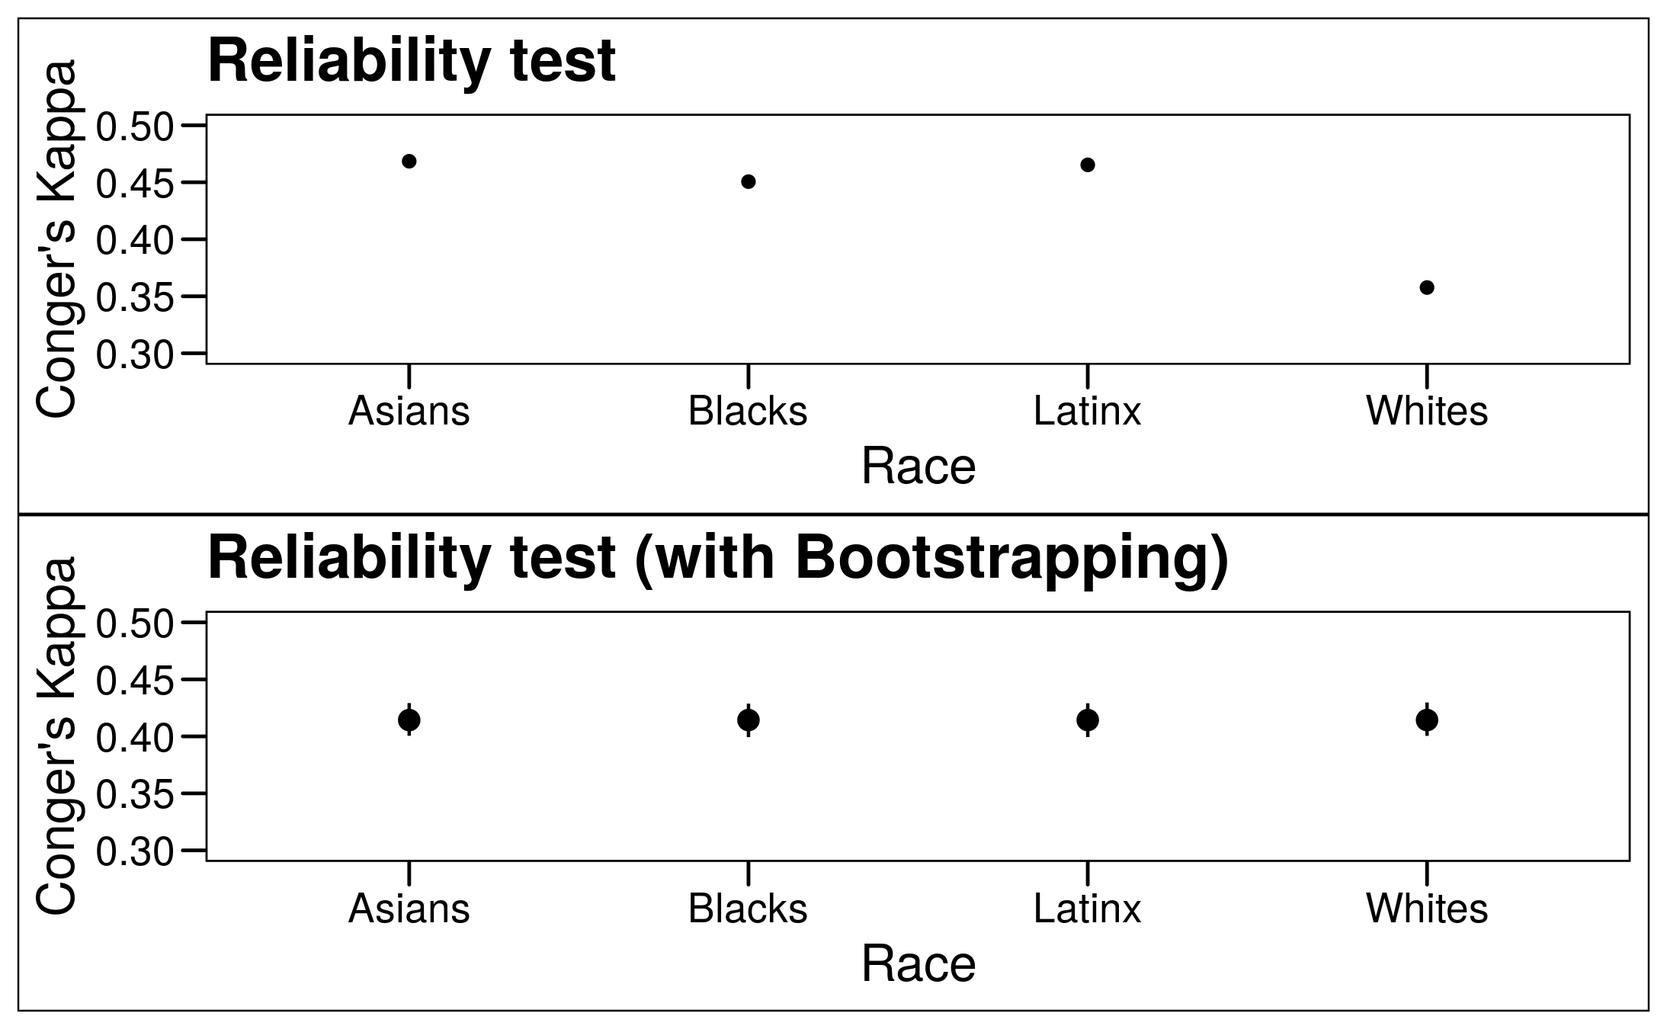
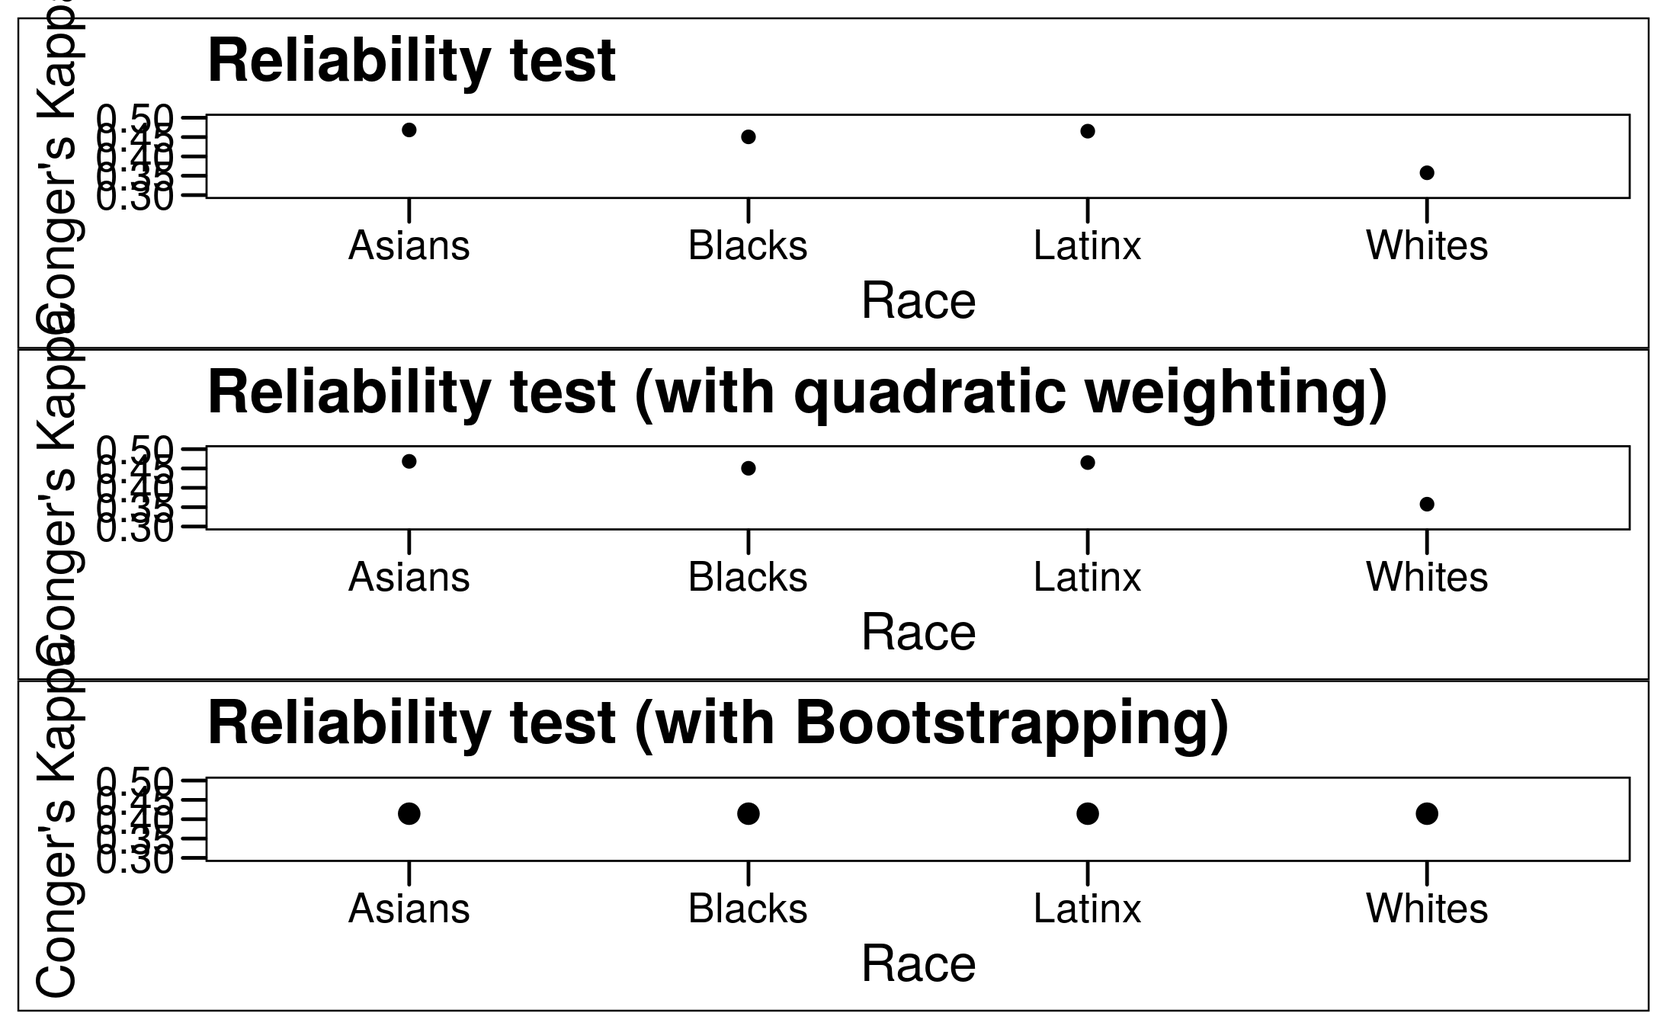
typos corrected and added weighting to reliability test

diff --git a/README.md b/README.md
@@ -4,47 +4,49 @@
 
 ## Overview
 
-This project investigates how people interpret linked fate, a major measure of group consciousness in identity politics. Dawson's [Behind the Mule](https://books.google.com/books?hl=en&lr=&id=0-I9DwAAQBAJ&oi=fnd&pg=PP11&ots=sEoMI1VStP&sig=NLmBqid3hZa2GKO1lpMvSPdYTQo#v=onepage&q&f=false) (1994) argues that African Americans remain a cohesive racial group despite the growing within-group economic inequality because the centuries-long experience of racial discrimination ties their individual and group utility together. He called this connection "linked fate" and since then linked fate has become a popular measure of group solidarity across diverse group contexts (Google Scholar search yields [more than 2700 results](https://scholar.google.com/scholar?hl=en&as_sdt=0%2C5&q=%22linked+fate%22&btnG=)).In this project, [Alan Yan](https://politics.princeton.edu/people/alan-yan) and I argue the linked fate literature has a measure problem. Scholars have measured the expressed strength of linked fate by asking survey respondents to what extent they agree what happens to their group also influences their life. The issue is people may think about that connection in two different ways: **linked progress** and **linked hurt**. Linked progress is a positive mechanism which indicates that an individual thinks that they make progress when their group makes progress. Linked hurt is a negative mechanism which indicates that an individual thinks that they get hurt when their group gets hurt. According to the black utility heuristics theory, the linked hurt interpretation is more plausible. But how do we know?
+This project investigates how people interpret linked fate, a major measure of group consciousness in identity politics. Dawson's [*Behind the Mule*](https://books.google.com/books?hl=en&lr=&id=0-I9DwAAQBAJ&oi=fnd&pg=PP11&ots=sEoMI1VStP&sig=NLmBqid3hZa2GKO1lpMvSPdYTQo#v=onepage&q&f=false) (1994) argues that African Americans remain a cohesive racial group despite the growing within-group economic inequality, because the centuries-long experience of racial discrimination ties their individual and group utility together. He called this connection "linked fate", and since then, linked fate has become a popular measure of group solidarity across diverse group contexts (a Google Scholar search yields [more than 2700 results](https://scholar.google.com/scholar?hl=en&as_sdt=0%2C5&q=%22linked+fate%22&btnG=)).
 
-Using a California-wide survey data (N = 4,435) and novel measures of linked fate, we demonstrate how distinguishing these interpretations matter for the empirical study of identity politics.
+In this project, [Alan Yan](https://politics.princeton.edu/people/alan-yan) and I argue the linked fate literature has a measure problem. Scholars have measured the expressed strength of linked fate by asking survey respondents to what extent they agree that what happens to their group also influences their life. The issue is people may think about that connection in two different ways: **linked progress** and **linked hurt**. Linked progress is a positive mechanism which suggests that an individual thinks they progress when their group progresses. Linked hurt is a negative mechanism which indicates that an individual thinks that they get hurt when their group gets hurt. According to Dawson's black utility heuristics theory, the linked hurt interpretation is more plausible because discrimination is the driving force. But how do we know?
 
-1. Linked progress was on average scored higher than linked hurt across all racial groups including African Americans. This finding was inconsistent with what Dawson's original theory implied.
-2. People expressed stronger group consciousness when they were asked about it through the standard linked fate question. White group consciousness disappeared when we used more specific linked fate questions. This finding raises a question about the foundations of how white group politics are different from that of other racial groups.
+Using a California-wide survey data (N = 4,435) and novel measures of linked fate, we demonstrated how distinguishing these interpretations matter for the empirical study of identity politics.
+
+1. Linked progress, on average, scored higher than linked hurt across all racial groups, including African Americans. This finding was inconsistent with Dawson's original theory.
+2. People expressed stronger group consciousness when they were asked about it through the standard linked fate question. White group consciousness disappeared when we used more specific linked fate questions. This finding raised a question about the foundation of how white group politics are different from those of other racial groups.
 
 ## Research design
 
 ### Hypothesis
 
-The standard way of measuring linked fate is asking the following question to the survey participants.
+The standard way of measuring linked fate is to ask the following question to the survey participants:
 
-- **Linked fate**: Do you agree or disagree - What happens to (Latinos/ whites/ blacks and African Americans / Asians/ Pacific Islanders/ American Indians) in this country will have something to do with what happens in my life
+- **Linked fate**: Do you agree or disagree? What happens to (Latinos/whites/blacks and African Americans/Asians/Pacific Islanders/American Indians) in this country will have something to do with what happens in my life.
 
-In addition to this standard measure, we added two novel measures of linked fate that distinguish whether linked fate is interpreted in the context of a positive or a negative connection between group and individual utility.
+In addition to using this standard measure, we added two novel measures of linked fate that determine whether linked fate is interpreted in the context of a positive or a negative relationship between group and individual utility.
 
-- **Linked progress**: Do you agree or disagree - When things get better for (Latinos/ whites/ blacks and African Americans/ Asians/ Pacific Islanders/ American Indians) in this country, then things will get better for me
-- **Linked hurt**: Do you agree or disagree - When things get worse for (Latinos/ whites/ blacks and African Americans/ Asians/ Pacific Islanders/ American Indians) in this country, then things will get worse for me
+- **Linked progress**: Do you agree or disagree? When things get better for (Latinos/whites/blacks and African Americans/Asians/Pacific Islanders/American Indians) in this country, then things will get better for me.
+- **Linked hurt**: Do you agree or disagree? When things get worse for (Latinos/whites/blacks and African Americans/Asians/Pacific Islanders/ American Indians) in this country, then things will get worse for me.
 
-Our main hypotheses are as follows:
+Our main hypotheses were as follows:
 1. Linked fate, linked progress, and linked hurt will yield statistically different levels of responses.
-2. If the measure is consistent with Dawson's theory, linked hurt will be more strongly correlated with linked hurt than linked progress responses especially among African Americans (convergent validity).
+2. If the measure is consistent with Dawson's theory, linked hurt will be more strongly correlated with linked hurt than linked progress responses, especially among African Americans (convergent validity).
 
 ### Data collection
 
-We tested this hypothesis by embedding these three questions in a California-wide survey (N = 4,435) carried out by the Institute of Government Studies at the University of California Berkeley in June 2019.
+We tested this hypothesis by embedding the above three questions in a California-wide survey (n = 4,435), carried out by the Institute of Government Studies at the University of California Berkeley in June 2019. Other mechanisms were added to reduce bias and collect more representative data:
 
 - Random sampling: Random sampling was used based on publicly available email addresses in voter records as a sampling frame (see this [link](https://www.latimes.com/politics/la-na-pol-2020-how-poll-was-done-20190613-story.html) for more information on their sampling methods and this [link](https://sda.berkeley.edu/sdaweb/docs/IGS_2019_02/DOC/hcbkfx0.htm) for list of items used in the survey).
-- Random ordering: These questions were randomly ordered to get around the order effect.
-- Multiple choices: The responses for these questions were collected using four multiple choices (1 - Agree strongly, 2 - Agree somewhat, 3 - Disagree somewhat, 4 - Disagree strongly).
+- Random ordering: These questions were randomly ordered to accout for order bias.
+- Multiple choices: The responses to these questions were collected using four multiple choices (1 - Agree strongly, 2 - Agree somewhat, 3 - Disagree somewhat, 4 - Disagree strongly).
 
 ## Workflow
 
-In the rest of the document, I state how I have **cleaned**, **analyzed**, and **visualized** data. I shared the R code I used in each step.
+In the rest of the document, I describe how I have **cleaned**, **analyzed**, and **visualized** data. I have shared the R code I used in each step.
 
 ### Data cleaning \[[Code](https://github.com/jaeyk/validating-two-linked-fates/blob/master/code/01_data_cleaning.Rmd)]
 
-- Recoded linked fate related questions so that all positive responses become positive numbers (2- agree strongly, 1- agree somewhat) and all negative responses become negative numbers (-1 - disagree somewhat, - 2 disagree strongly). I did so because this scale was easier for me to interpret the results.
-- Found 5-6% of missing responses from linked fate questions and imputed them using multiple imputations (the `mice` package in R).
-- Only included participants whose ethnicity was identified either as whites, African Americans, Latinx, and Asian Americans. Consequently, I dropped 150 participants (3% of the total number of participants) who were non-identified using these measures.
+- I recoded linked fate-related questions so that all positive responses became positive numbers (2 was agree strongly, 1 was agree somewhat), and all negative responses became negative numbers (-1 was disagree somewhat, - 2 was disagree strongly). This scale made it easier to interpret the results.
+- I identified missing responses from linked fate questions, which represented 5–6% of the responses, and inputted them using multiple additions (the `mice` package in R).
+- I only included participants who identified as white, African American, Latinx, and Asian American. Consequently, I dropped 150 participants (3% of the total number of participants) who were non-identified using these measures.
 
 ### Data analysis and visualization \[[Code](https://github.com/jaeyk/validating-two-linked-fates/blob/master/code/02_data_analysis.Rmd)]
 
@@ -53,48 +55,48 @@ In the rest of the document, I state how I have **cleaned**, **analyzed**, and *
 ![](https://github.com/jaeyk/validating-two-linked-fates/blob/master/outputs/descriptive_stat_plot.png)
 Figure 1. Mean and Standard Errors
 
-In Figure 1, X-axis indicates the average score of responses to linked fate related questions. Y-axis indicates different racial groups. Mean describes the central tendency of the responses. The limitation is it does not show how these data points are spread. For that reason, I also included standard errors, which are indicated by the error bars.
+In Figure 1, the x-axis indicates the average score of responses to linked fate-related questions. The y-axis charts different racial groups. The mean describes the central tendency of the responses. The limitation is that it does not show how these data points are spread. For that reason, I also included the standard errors, which are indicated by the error bars.
 
-To begin with, Figure 1 clearly demonstrates using a different measure for linked fate yields a different level of responses. Overall, the standard linked fate question drew the strongest expressed support for linked fate. Linked progress was on average scored higher than linked hurt across all racial groups including African Americans. It does not mean that Dawson's theory is wrong because the data also provides evidence for the presence of linked hurt. What the theory has missed is the importance of linked progress mechanism and its prevalence.
+Figure 1 clearly demonstrates how the use of a different measure for linked fate yields a different level of response. Overall, the standard linked fate question drew the strongest expressed support for linked fate. On average, linked progress scored higher than linked hurt across all racial groups, including African Americans. These results do not necessarily mean that Dawson's theory is wrong because the data also provides evidence for the presence of linked hurt. However, the theory has failed to include the importance of linked progress mechanisms and its prevalence.
 
 #### Density plots
 
 ![](https://github.com/jaeyk/validating-two-linked-fates/blob/master/outputs/density_plot.png)
 Figure 2. Descriptive analysis
 
-In Figure 2, X-axis indicates those multi-choices used in the linked fate questions. Y-axis indicates their kernel density estimates (KDE). The smoothed line shows an estimated underlying data distribution. This more detailed look at the data reveals several interesting patterns.
+In Figure 2, the x-axis indicates the multi-choices offered in the linked fate questions. The y-axis plots the variable’s kernel density estimations (KDE). The smooth line depicts the estimated underlying data distribution. This more detailed look at the data reveals several interesting patterns.
 
-The KDE pattern for the responses to the linked fate question among African American respondents is consistent with the prediction of the black utility heuristics theory. The distribution was left-skewed. It shows almost unanimous support for the black solidarity.
+The KDE pattern for the responses to the linked fate questions among African American respondents is consistent with the prediction of the black utility heuristics theory. The distribution is skewed left. It shows almost unanimous support for black solidarity.
 
-However, the same respondents became more skeptical when they were asked about the specific connection between their group and individual utility. We can see similar patterns across other racial groups. The case of whites was an extreme one. In that case, the respondents began to disagree with the idea of white group consciousness more than they agreed with it.
+However, the same respondents became more skeptical when they were asked about the specific connection between their group and individual utility. We can see similar patterns across other racial groups, with white respondents’ answers representing an extreme example. In that case, the respondents began to disagree with the idea of white group consciousness more than they agreed with it.
 
 #### Correlation tests
 
-As the next step, I examine the correlation between the standard and nobel linked fate measures. The theory predicts that the responses of the standard linked fate measure should covary more closely with the responses of the linked hurt measure than those of the linked progress measure. This hypothesis is not correct across all racial groups except whites where the correlation coefficients between these two relationships are quite close.
+As the next step, I examined the correlation between the standard and nobel linked fate measures. The theory predicts that the responses of the standard linked fate measure should covary more closely with the responses of the linked hurt measure than with those of the linked progress measure. This hypothesis was not true across all racial groups except whites, where the correlation coefficients between these two relationships were quite close.
 
-I calculated correlation coefficients using four different methods as these methods make slightly different assumptions about the distribution of data points. The differences between them provide some additional insights into the data. Pearson correlation coefficients assume that the two variables being measured have a linear relationship. These coefficients show the highest numbers. Using bootstrapping makes almost no difference. Spearman and Kendall correlation coefficients are non-parametric, specifically rank-based measures. These measures provide smaller coefficients. These numbers tell us that the relationship between the two variables is not strictly monotonic. This is a pattern we already observed in Figure 2.
+I calculated the correlation coefficients using four different methods, as these methods made slightly different assumptions about the distribution of data points. The differences between them provided some additional insights into the data. The Pearson correlation coefficients assume that the two variables being measured have a linear relationship. These coefficients showed the highest numbers. The use of bootstrapping made almost no difference. The Spearman and Kendall correlation coefficients are non-parametric, specifically rank-based measures. These measures provide smaller coefficients. These numbers told us that the relationship between the two variables was not strictly monotonic. This was a pattern we had already observed in Figure 2.
 
 ![](https://github.com/jaeyk/validating-two-linked-fates/blob/master/outputs/cor_coeffs_plot.png)
 Figure 3. Correlation tests results
 
 #### Reliability tests
 
-The other necessary step is checking reliability. Perhaps, the differences in responses of these three linked fate questions arose by chance. They are all related and wordings sound similar. Thus, this is a legitimate concern. I addressed this problem by calculating Conger's kappa. Conger's kappa is a generalized version of Cohen's kappa and shows whether the raters have a perfect agreement (=1) or their agreement is entirely a fluke (=0). This technique is often used to test the reliability of raters. Here, I use this method whether similarities in the responses of these three linked fate questions occurred by chance.
+The other necessary step was checking reliability. Perhaps, the differences in responses in these three linked fate questions arose by chance. The questions were all related and their wording was similar. Thus, this was a legitimate concern. I addressed this problem by calculating Conger's kappa. Conger's kappa is a generalized version of Cohen's kappa and shows whether the raters have a perfect agreement (=1) or if their agreement is entirely a fluke (=0). This technique is often used to test the reliability of raters. Here, I employed this method to determine whether similarities in the responses of these three linked fate questions occurred by chance.
 
-In Figure 4, Y-axis indicates Conger's kappa statistic and X-axis indicates different racial groups. The upper panel shows that the reliability score for whites is far lower than that of the other groups. One concern here is the number of white survey participants is far greater than that of the other groups. Because I am concerned about this imbalance in group size, I also bootstrapped kappa and also calculated confidence intervals. The lower panel shows that when we did that the difference disappeared. All kappa statistics are between 0.4 and 0.45.
+In Figure 4, the y-axis indicates Conger's kappa statistic, and the x-axis plots different racial groups. The top panel shows that the reliability score for whites is far lower than that of other groups. The middle panel shows that weighting makes no difference. One concern was that the number of white survey participants was far greater than that of other groups. To account for this imbalance in group size, I also bootstrapped kappa and calculated the confidence intervals. The bottom panel shows that the difference disappears after carrying out these additional calculations. All kappa statistics are between 0.4 and 0.45.
 
 ![](https://github.com/jaeyk/validating-two-linked-fates/blob/master/outputs/reliability_tests_plot.png)
 Figure 4. Correlation tests results
 
 #### Difference of means test
 
-Finally, I would like to revisit Figure 1 and stress the extent to which using the standard linked fate question creates more positive responses compared to the more specific questions do. Here, the left panel (Hurt - Fate) shows the mean difference between the responses of the linked hurt question and those of the standard linked fate question. Similarly, the right panel (Progress - Fate) shows that the mean difference between the responses of the linked progress question and those of the standard linked fate question. The X-axis indicates different racial groups. Y-axis indicates the difference in means. In both cases, it is clear that using specific questions decreases the ratio of positive responses. The decreasing rate is more severe in the case of the linked hurt than that of the linked hurt question. In that regard, white respondents showed the most extreme tendency.
+Finally, I would like to revisit Figure 1 and stress the extent to which using the standard linked fate question creates more positive responses compared to the more specific question. Here, the left panel (Hurt - Fate) shows the mean difference between the responses of the linked hurt question and those of the standard linked fate question. Similarly, the right panel (Progress - Fate) displays the mean difference between the responses of the linked progress question and those of the standard linked fate question. The x-axis charts different racial groups. The y-axis indicates the difference in means. In both cases, it is clear that using a specific question decreases the ratio of positive responses. The ratio decreases faster in the case of the linked hurt than that of the linked hurt question. In that regard, white respondents showed the most extreme tendency.
 
 ![](https://github.com/jaeyk/validating-two-linked-fates/blob/master/outputs/diff_in_means_plot.png)
 Figure 5. The difference in means test results
 
 #### Concluding remarks
 
-1. Why was the standard linked questionable to create the most positive responses? One possibility was because the wording is vague and general. Thus, it left room for respondents to interpret in whatever way they prefer.
-2. Our study suggested two possible interpretations of the linked fate question and showed both supportive and not supportive evidence for the black utility heuristics theory. The negative mechanism is present but the positive mechanism is prevailing even including African Americans.
-3. Directly applying the standard linked fate question to whites should take caution. The survey results show that whites clearly interpret and react to the idea of group consciousness differently compared to other racial groups.
+1. Why was the standard linked question able to generate the most positive responses? One possibility was because the wording was vague and general. Thus, it left room for respondents to interpret the question in whatever way they preferred.
+2. Our study suggested two possible interpretations of the linked fate question and showed both supportive and not supportive evidence for the black utility heuristics theory. The negative mechanism was present, but the positive mechanism was prevailing, even for African Americans.
+3. Researchers should use caution when directly applying the standard linked fate question to whites. The survey results showed that whites clearly interpreted and reacted to the idea of group consciousness differently compared to other racial groups.
